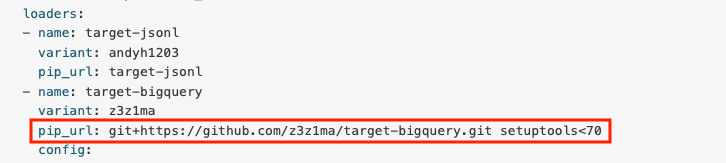
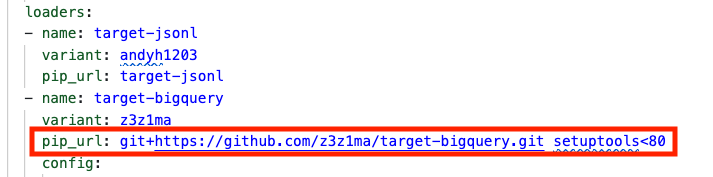
fix: change setup tools to <80

diff --git a/lesson.md b/lesson.md
@@ -186,7 +186,7 @@ Set the following options:
 On February 6, 2026, `setuptools` released version 81.0.0, which officially removed the module `pkg_resources` entirely which meltano depends on. The work around fix is as follows:
 1. Open `meltano.yml` under the project folder `meltano-ingestion`.
 2. Under `name: target-bigquery`, look for `pip_url: git+https://github.com/z3z1ma/target-bigquery.git`
-3. Add `setuptools<70` with a space after git. The resulting setup as as follows:
+3. Add `setuptools<80` with a space after git. The resulting setup as as follows:
 
 ![alt text](assets/meltano_fix.png)
 
@@ -311,7 +311,7 @@ Set the following options:
 On February 6, 2026, `setuptools` released version 81.0.0, which officially removed the module `pkg_resources` entirely which meltano depends on. The work around fix is as follows:
 1. Open `meltano.yml` under the project folder `meltano-resale`.
 2. Under `name: target-bigquery`, look for `pip_url: git+https://github.com/z3z1ma/target-bigquery.git`
-3. Add `setuptools<70` with a space after git. The resulting setup as as follows:
+3. Add `setuptools<80` with a space after git. The resulting setup as as follows:
 
 ![alt text](assets/meltano_fix.png)
 